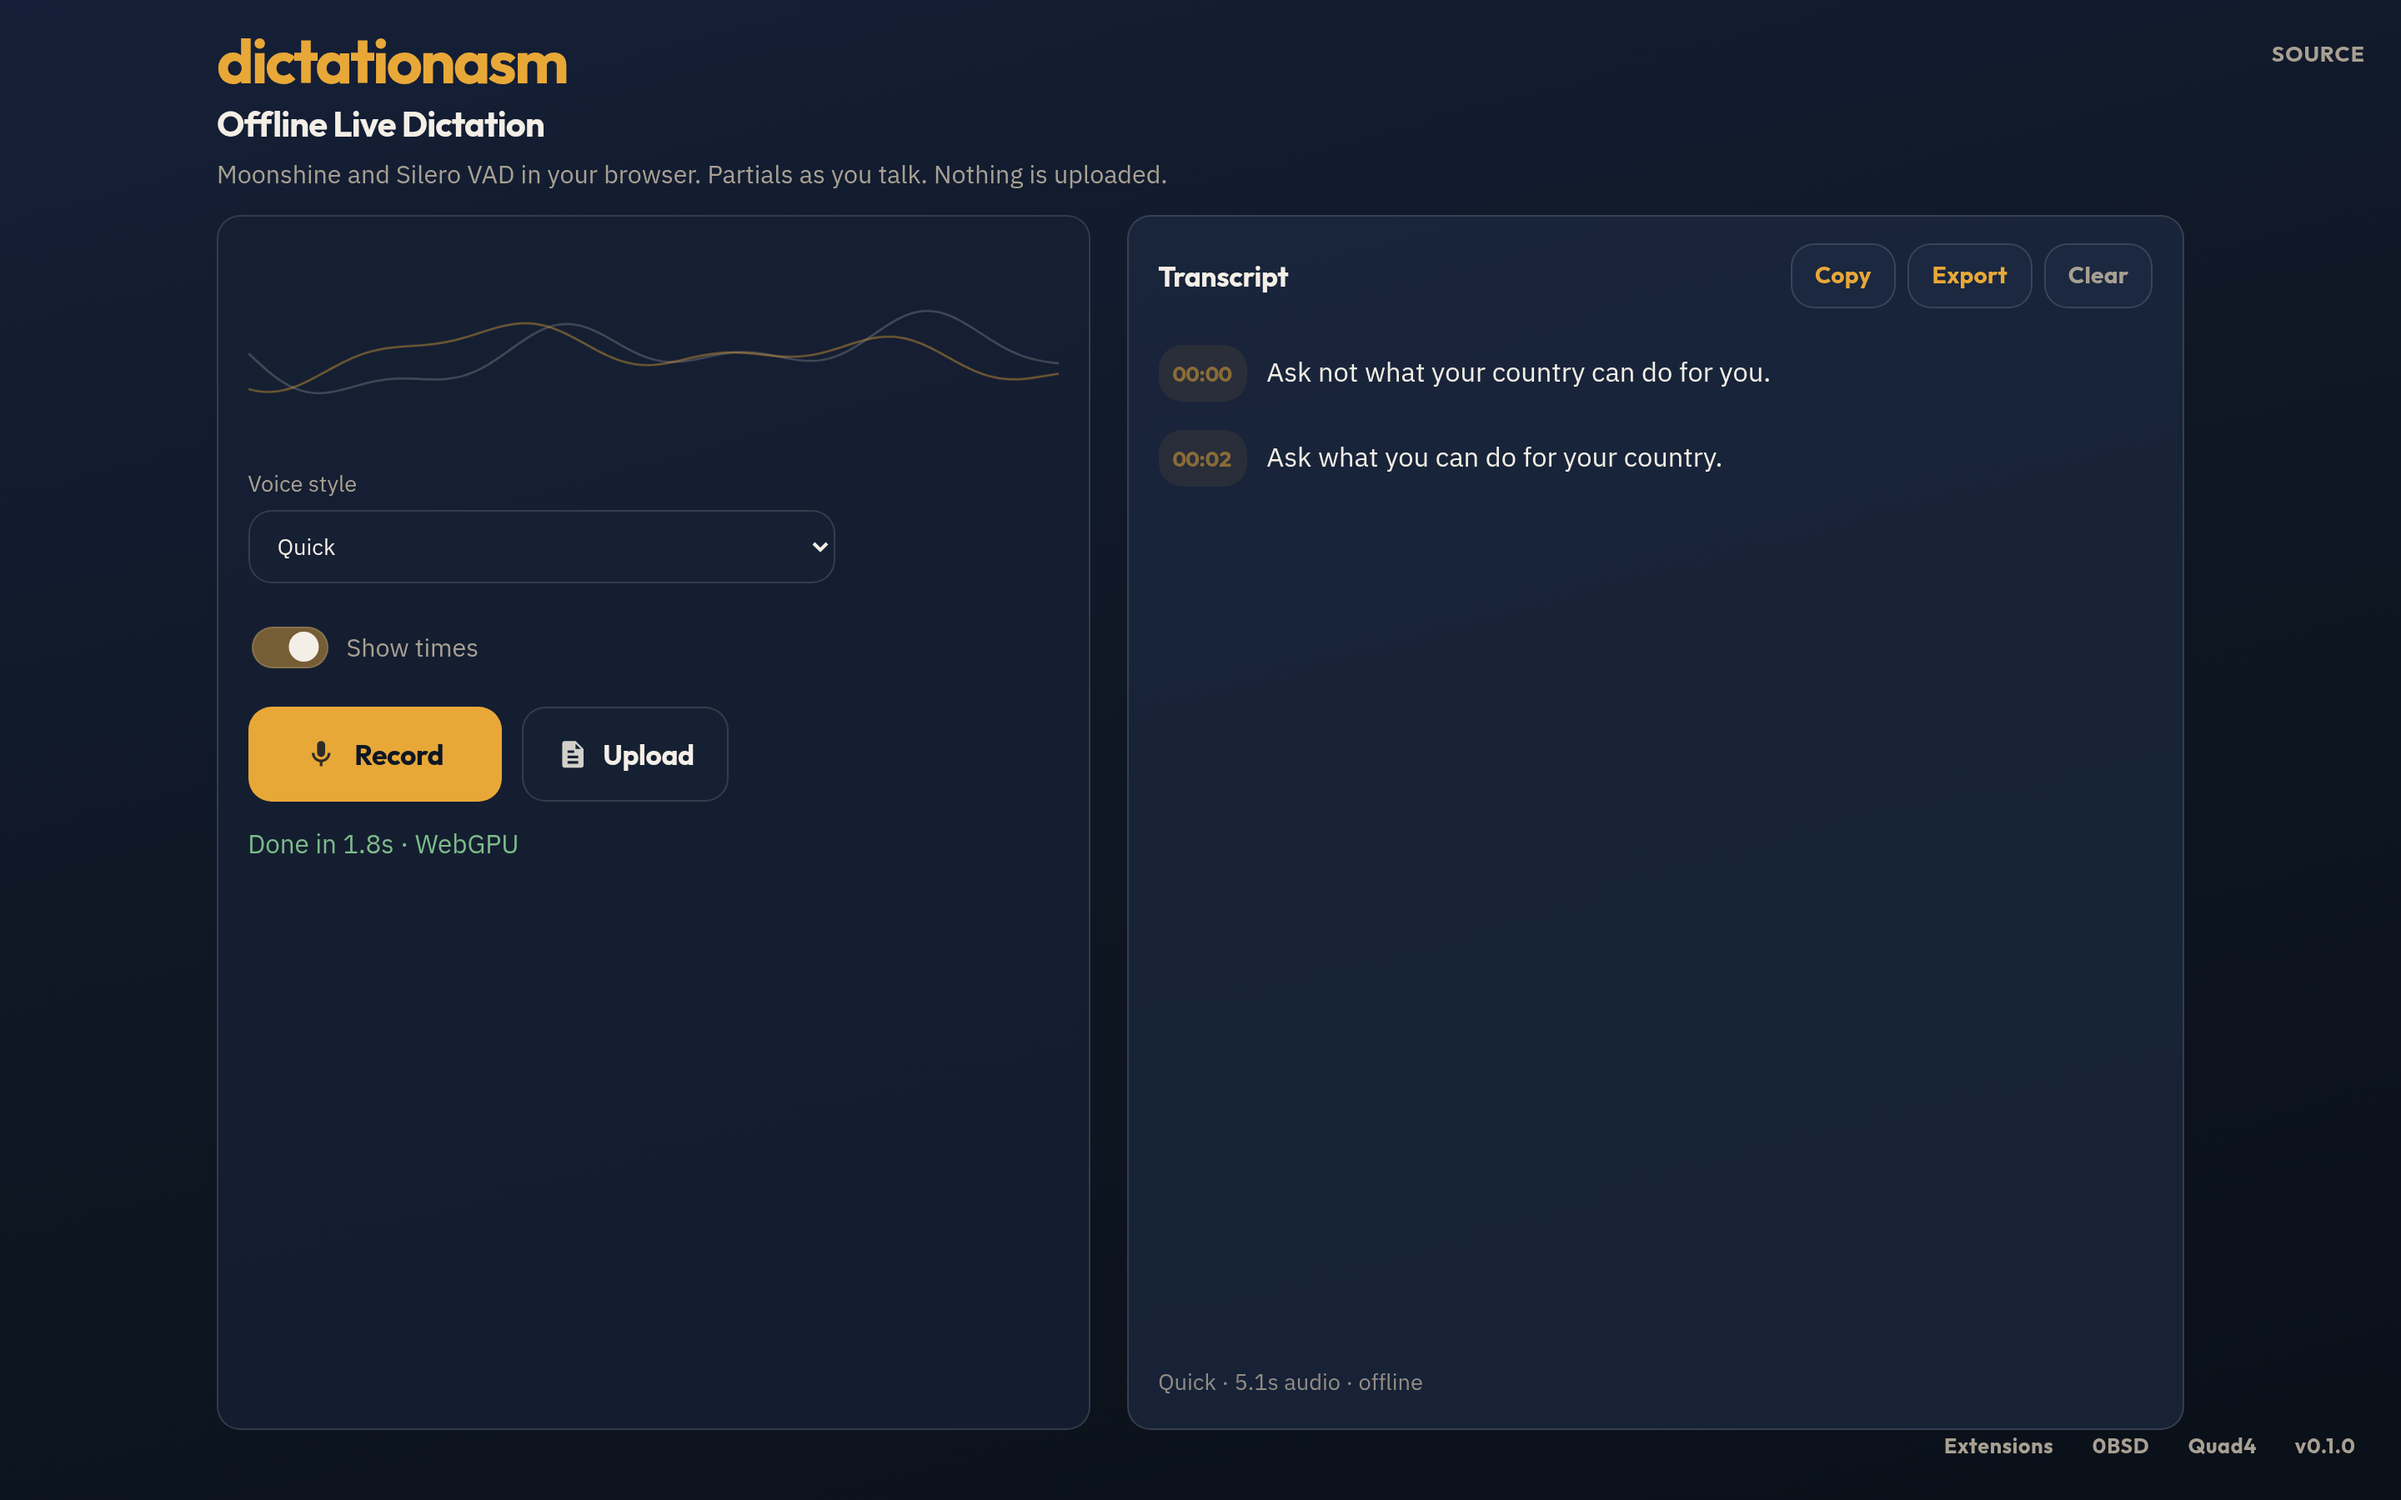
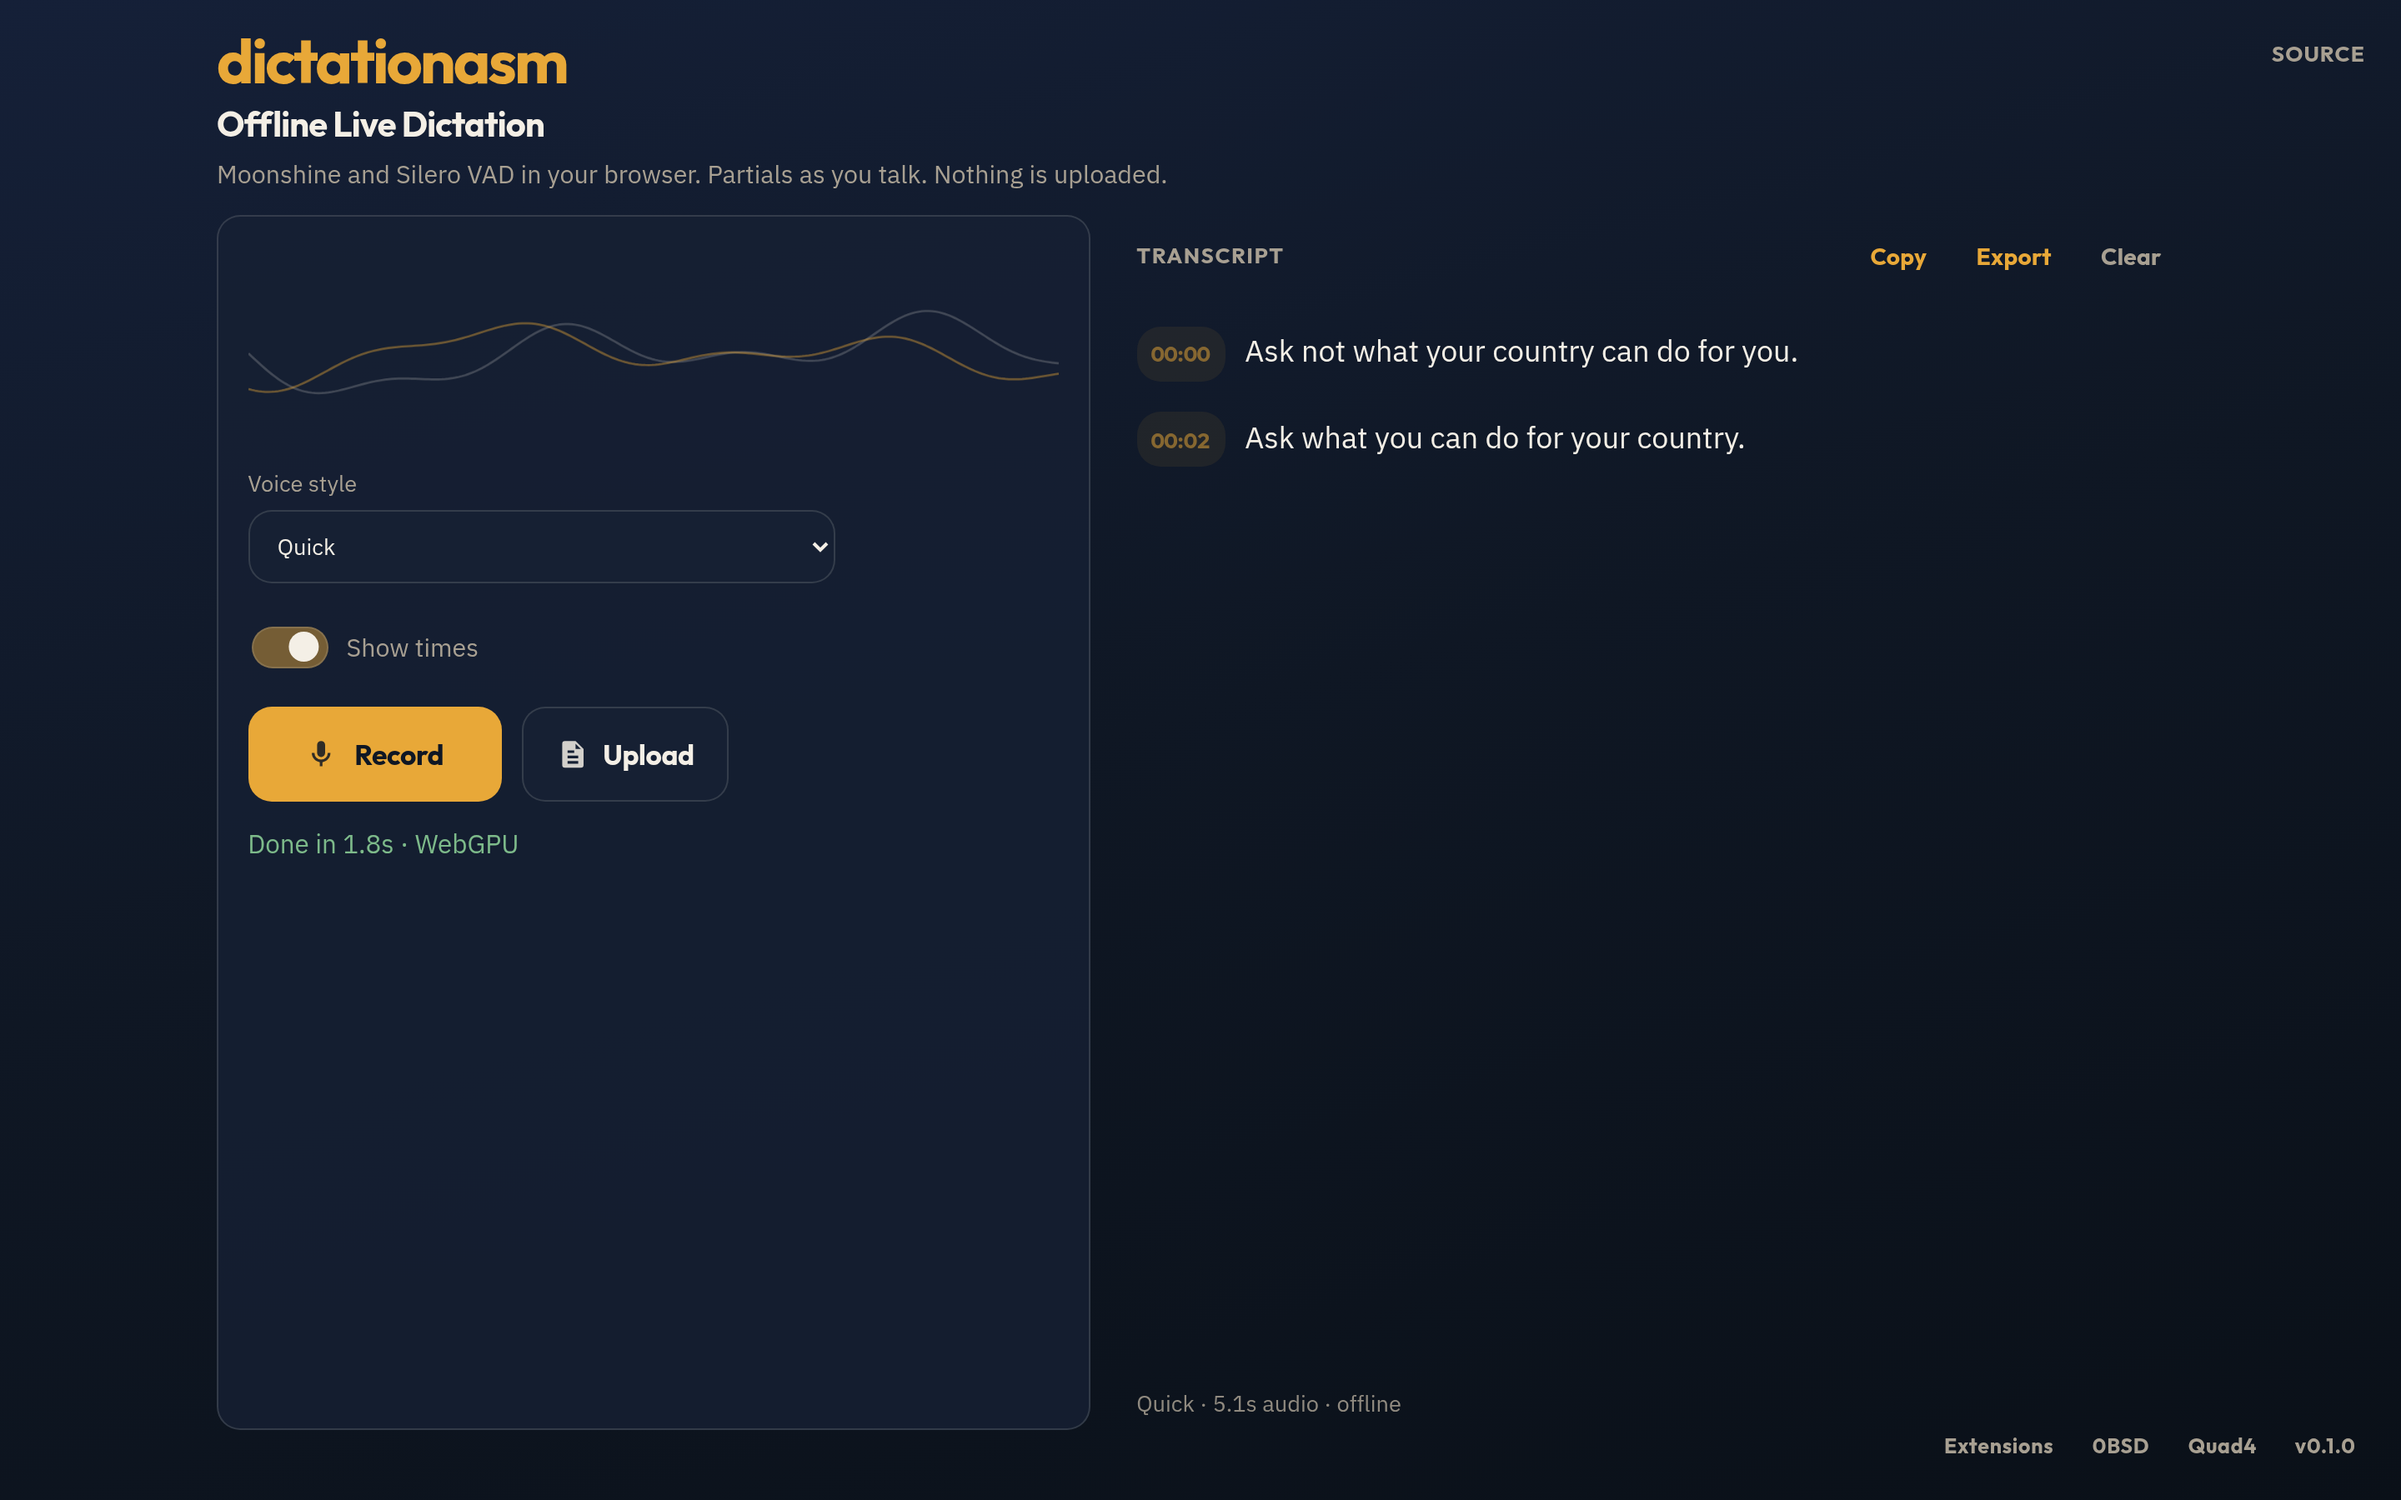
Drop the transcript panel chrome so the text sits open on the page.

diff --git a/web/css/app.css b/web/css/app.css
@@ -301,10 +301,10 @@ body {
 }
 
 .panel-result {
-  padding: 1rem 1.1rem 1.1rem;
-  border: 1px solid var(--line);
-  border-radius: var(--radius);
-  background: color-mix(in srgb, var(--panel-2) 70%, transparent);
+  padding: 0.35rem 0.15rem 0.35rem 0.35rem;
+  border: 0;
+  border-radius: 0;
+  background: transparent;
   animation-delay: 0.12s;
   min-height: 0;
 }
@@ -662,16 +662,18 @@ body {
 .result-toolbar h2 {
   margin: 0;
   font-family: var(--font-display);
-  font-size: 1.05rem;
+  font-size: 0.82rem;
   font-weight: 700;
-  letter-spacing: -0.01em;
+  letter-spacing: 0.06em;
+  text-transform: uppercase;
+  color: var(--ink-soft);
 }
 
 .action-btn {
   appearance: none;
-  border: 1px solid var(--line);
+  border: 0;
   border-radius: var(--radius);
-  background: color-mix(in srgb, var(--panel-2) 80%, transparent);
+  background: transparent;
   color: var(--accent);
   font-family: var(--font-display);
   font-size: 0.88rem;
@@ -679,20 +681,19 @@ body {
   letter-spacing: 0.01em;
   cursor: pointer;
   min-height: 2.4rem;
-  padding: 0.45rem 0.85rem;
+  padding: 0.45rem 0.7rem;
   touch-action: manipulation;
-  transition: background 0.2s var(--ease), border-color 0.2s var(--ease), color 0.2s var(--ease);
+  transition: background 0.2s var(--ease), color 0.2s var(--ease);
 }
 
 .action-btn:hover,
 .action-btn:focus-visible {
-  background: color-mix(in srgb, var(--accent) 16%, transparent);
-  border-color: color-mix(in srgb, var(--accent) 35%, var(--line));
+  background: color-mix(in srgb, var(--accent) 12%, transparent);
   outline: none;
 }
 
 .action-btn:active {
-  background: color-mix(in srgb, var(--accent) 24%, transparent);
+  background: color-mix(in srgb, var(--accent) 20%, transparent);
 }
 
 .action-btn:disabled {
@@ -712,12 +713,12 @@ body {
   overflow: auto;
   -webkit-overflow-scrolling: touch;
   overscroll-behavior: contain;
-  padding-right: 0.35rem;
+  padding-right: 0.2rem;
   white-space: pre-wrap;
   word-break: break-word;
   font-family: var(--font-body);
-  font-size: 1.02rem;
-  line-height: 1.65;
+  font-size: 1.12rem;
+  line-height: 1.7;
   color: var(--ink);
   scrollbar-width: thin;
   scrollbar-color: color-mix(in srgb, var(--accent) 35%, transparent) transparent;
@@ -885,7 +886,7 @@ body {
 
   .panel-result {
     min-height: 0;
-    padding: 1rem;
+    padding: 0.25rem 0;
   }
 
   #wave {
@@ -1042,8 +1043,7 @@ body {
   }
 
   .panel-result {
-    border-radius: var(--radius);
-    padding: 0.85rem;
+    padding: 0.15rem 0;
     min-height: 0;
   }
 
